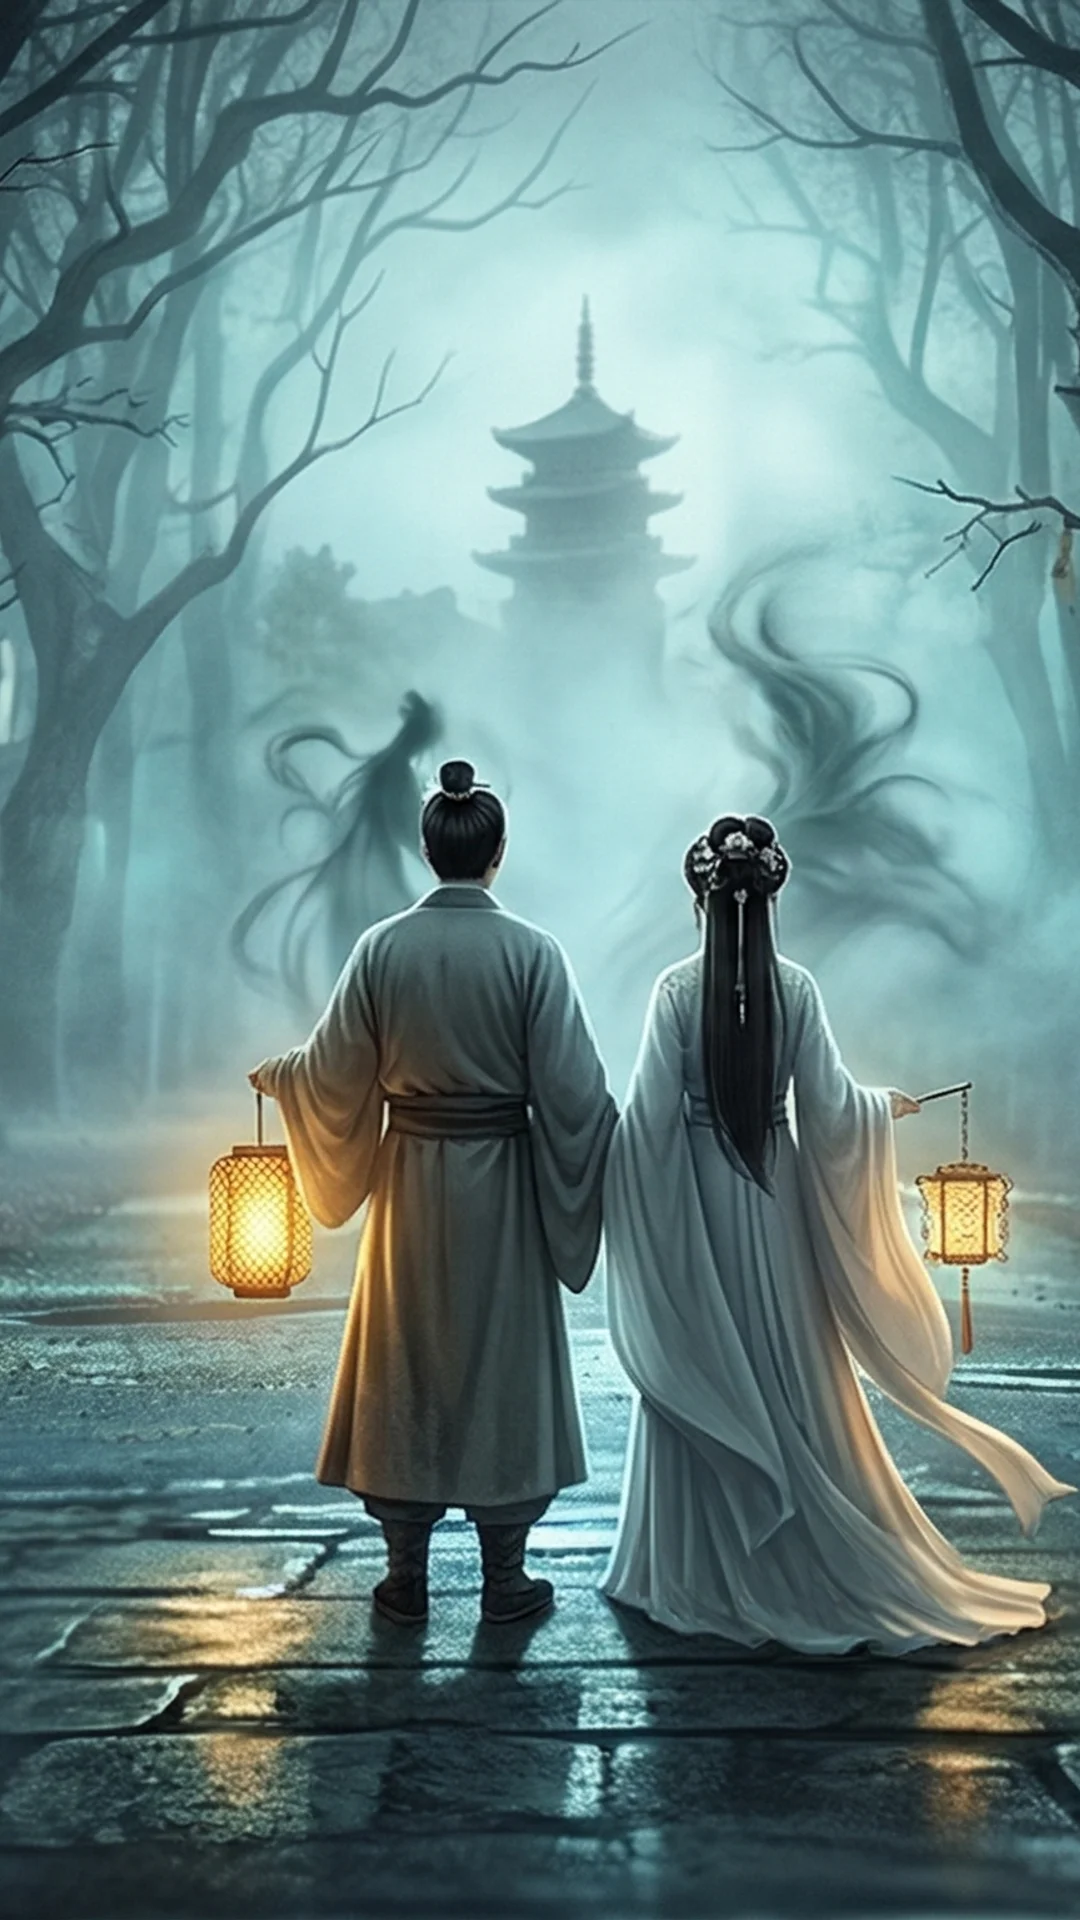
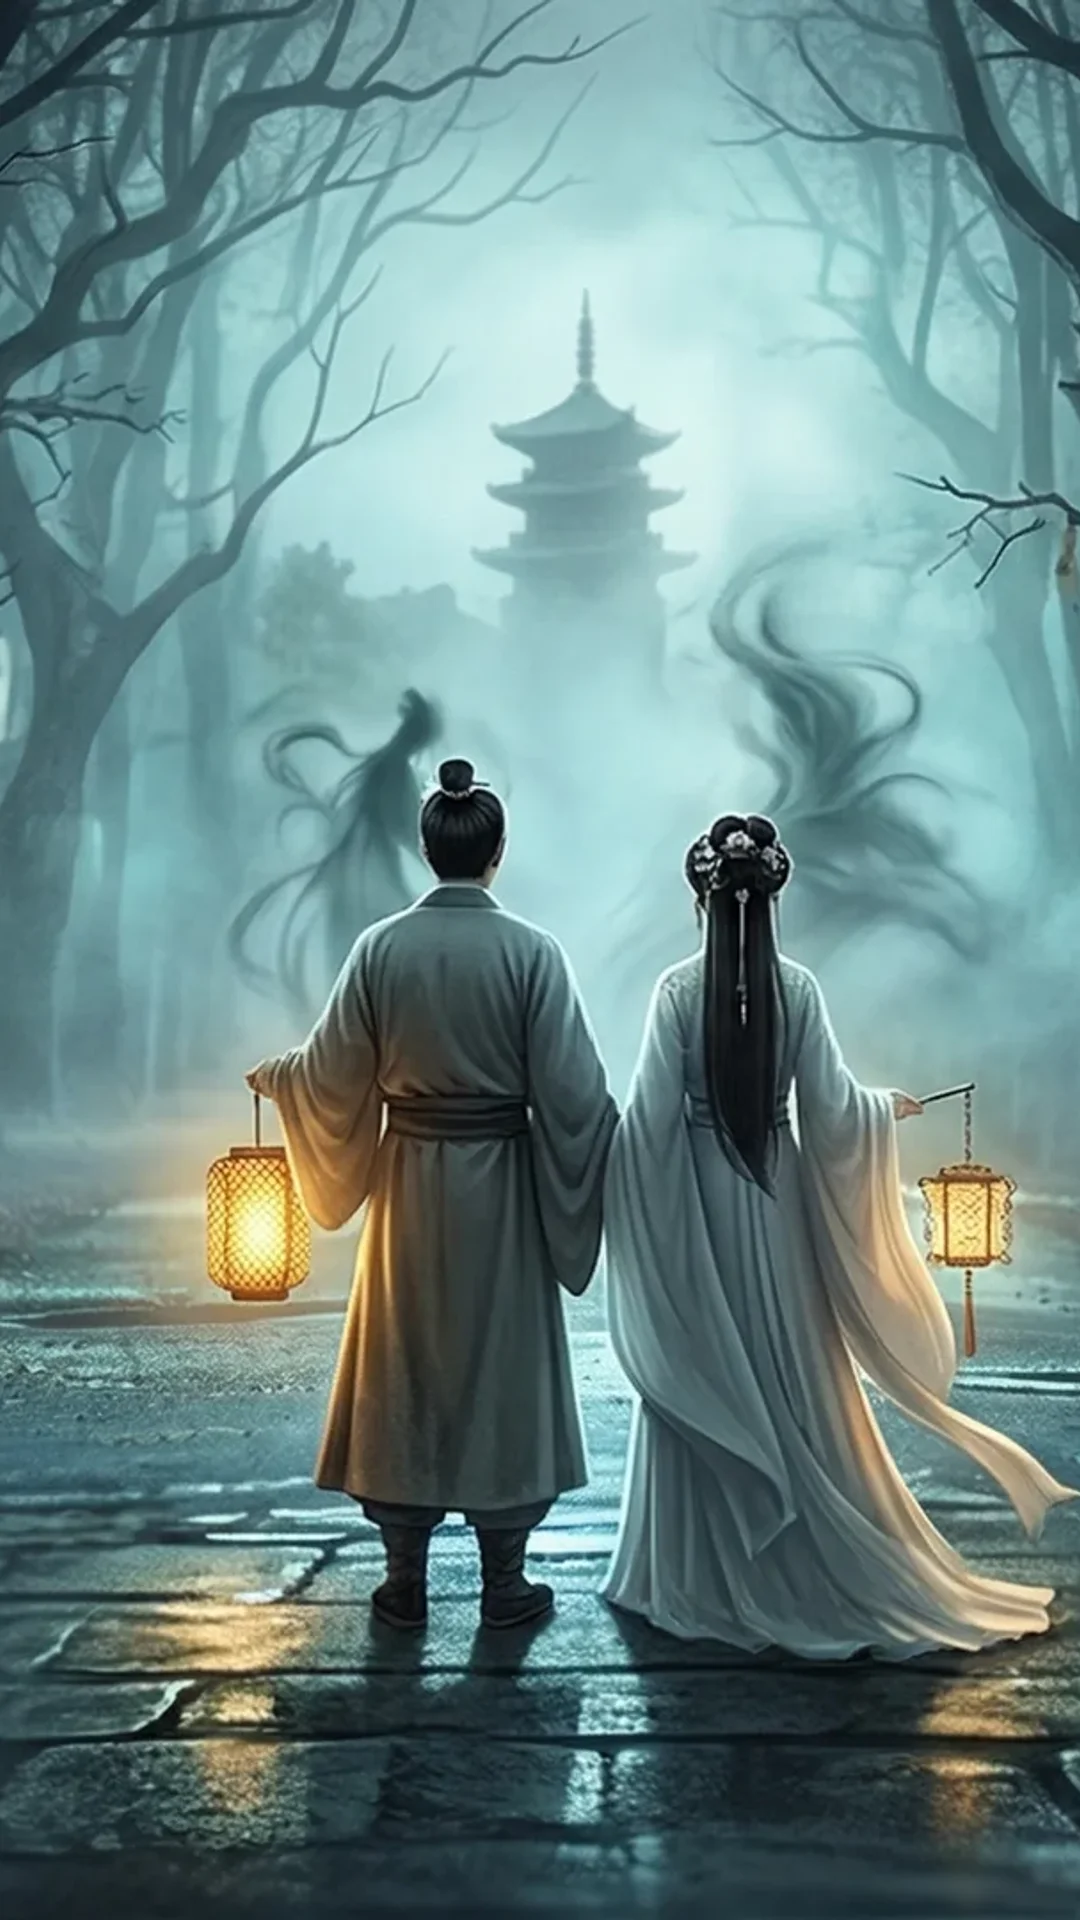
Update background image + adjust panel positioning
- Regenerate WebP from new bg-desktop.png
- Setup/character panels: items-start with pt-[5vh] top padding
- Compact form spacing for better mobile fit
- Bottom padding pb-8 ensures buttons stay visible

diff --git a/src/components/SetupPhase.tsx b/src/components/SetupPhase.tsx
@@ -28,12 +28,12 @@ export default function SetupPhase() {
   }
 
   return (
-    <div className="min-h-[100dvh] flex items-center justify-center p-4 overflow-y-auto">
-      <div className="w-full max-w-lg animate-fade-in-up py-6">
+    <div className="h-[100dvh] flex items-start justify-center overflow-y-auto">
+      <div className="w-full max-w-lg animate-fade-in-up px-4 pt-[5vh] sm:pt-[8vh] pb-8">
         {/* Title Card */}
-        <div className="text-center mb-8">
-          <div className="inline-block mb-4">
-            <span className="text-5xl sm:text-6xl animate-ghost-float inline-block">🕯</span>
+        <div className="text-center mb-6">
+          <div className="inline-block mb-3">
+            <span className="text-4xl sm:text-5xl animate-ghost-float inline-block">🕯</span>
           </div>
           <h1 className="text-2xl sm:text-3xl font-bold text-gold tracking-widest mb-3">
             輪 迴 之 門
@@ -45,7 +45,7 @@ export default function SetupPhase() {
         </div>
 
         {/* Form Panel */}
-        <div className="glass-panel ancient-frame corner-decor rounded-2xl p-5 sm:p-8 space-y-6">
+        <div className="glass-panel ancient-frame corner-decor rounded-2xl p-5 sm:p-7 space-y-5">
 
           {/* Age */}
           <div>

diff --git a/src/components/CharacterSelect.tsx b/src/components/CharacterSelect.tsx
@@ -42,8 +42,8 @@ export default function CharacterSelect() {
   }
 
   return (
-    <div className="min-h-[100dvh] flex items-center justify-center p-4 overflow-y-auto">
-      <div className="max-w-2xl w-full animate-fade-in-up py-6">
+    <div className="h-[100dvh] flex items-start justify-center overflow-y-auto">
+      <div className="max-w-2xl w-full animate-fade-in-up px-4 pt-[5vh] sm:pt-[8vh] pb-8">
         {/* Title */}
         <div className="text-center mb-10">
           <h1 className="text-2xl sm:text-3xl font-bold text-gold tracking-widest mb-3">
